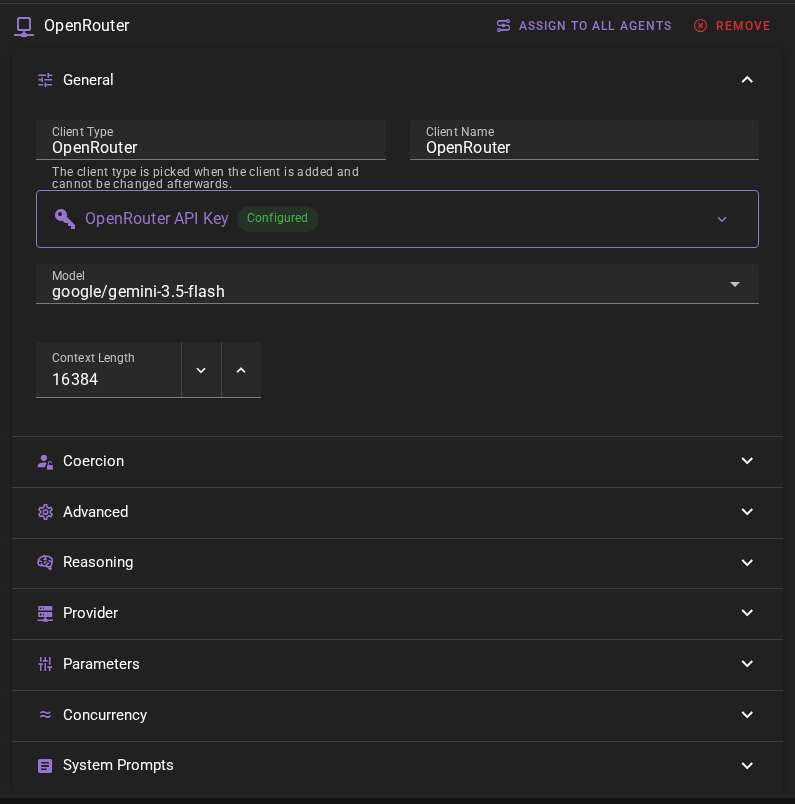
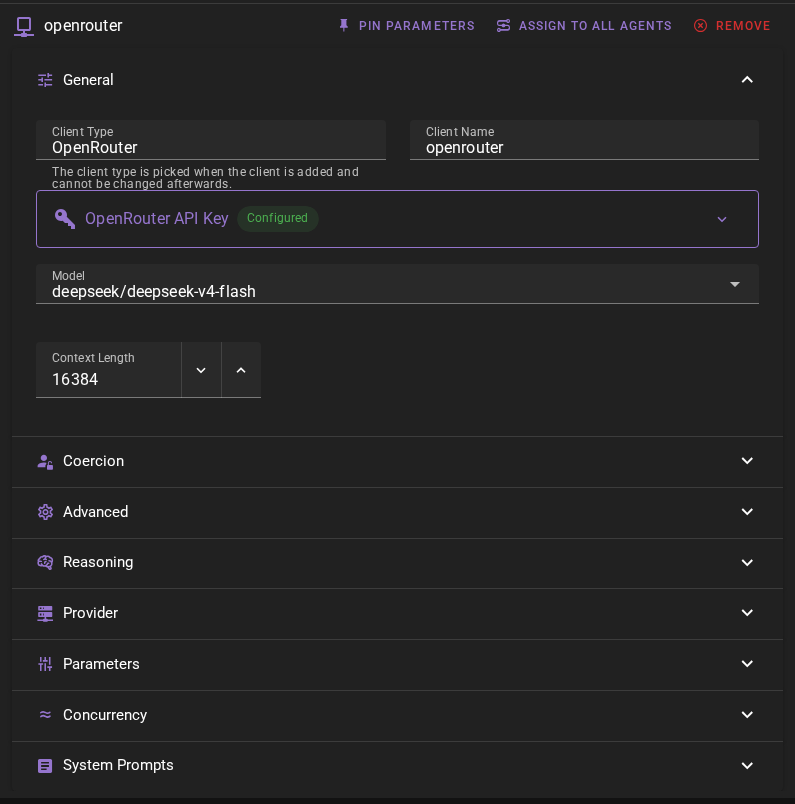
Pin parameters is always in the client menu; the settings page is a second pin (#386)
* feat: always offer the inference parameter pin in the client menu

* docs: name the pin action in the client editor; follow the pinned state in its tooltip

diff --git a/talemate_frontend/tests/unit/clientPinnedParams.spec.js b/talemate_frontend/tests/unit/clientPinnedParams.spec.js
@@ -1,0 +1,122 @@
+import { describe, it, expect } from "vitest";
+import { fileURLToPath, URL } from "node:url";
+import { lift, readSource } from "./helpers/liftMethod.js";
+import { movePinnedPanelClient, pinnedPanelClient } from "@/utils/inferencePresets";
+import { hasOwnName } from "@/utils/nameKeyedMap";
+
+const SOURCE = readSource(
+    fileURLToPath(new URL("../../src/components/AppSettingsClients.vue", import.meta.url)),
+);
+const CLIENT_LIST = readSource(
+    fileURLToPath(new URL("../../src/components/AIClient.vue", import.meta.url)),
+);
+const APP = readSource(
+    fileURLToPath(new URL("../../src/components/TalemateApp.vue", import.meta.url)),
+);
+
+function appStub({ pinned = null, clients = ["openrouter"] } = {}) {
+    const stub = {
+        appConfig: {
+            clients: Object.fromEntries(clients.map(name => [name, { name }])),
+            presets: { inference_param_panel: { client: pinned } },
+        },
+    };
+    const fn = lift(APP, "inferenceParamsClient", "TalemateApp.vue", { pinnedPanelClient, hasOwnName });
+    Object.defineProperty(stub, "inferenceParamsClient", { get: () => fn.call(stub) });
+    return stub;
+}
+
+function pageStub({ pinned = null, selected = "openrouter", clients = ["openrouter", "kobold"] } = {}) {
+    const stub = {
+        selected: selected ? [selected] : [],
+        config: {
+            clients: Object.fromEntries(clients.map(name => [name, { name, preset_group: "" }])),
+            presets: { inference_param_panel: { client: pinned }, inference_groups: {} },
+            agents: {},
+        },
+    };
+    for (const [name, deps] of [
+        ["selectedName", {}],
+        ["paramsPinned", { pinnedPanelClient }],
+    ]) {
+        const fn = lift(SOURCE, name, "AppSettingsClients.vue", deps);
+        Object.defineProperty(stub, name, { get: () => fn.call(stub) });
+    }
+    for (const [name, deps] of [
+        ["togglePinnedParams", {}],
+        ["deleteClient", { movePinnedPanelClient }],
+    ]) {
+        const fn = lift(SOURCE, name, "AppSettingsClients.vue", deps);
+        stub[name] = (...args) => fn.apply(stub, args);
+    }
+    stub.reassignAgents = () => {};
+    return stub;
+}
+
+describe("the clients page pin control", () => {
+    it("reads the pin the client list wrote", () => {
+        expect(pageStub({ pinned: "openrouter" }).paramsPinned).toBe(true);
+    });
+
+    it("a client pinned elsewhere reads as unpinned here", () => {
+        expect(pageStub({ pinned: "kobold" }).paramsPinned).toBe(false);
+    });
+
+    it("nothing is pinned while no client is selected", () => {
+        expect(pageStub({ pinned: null, selected: null }).paramsPinned).toBe(false);
+    });
+
+    it("pins the selected client", () => {
+        const stub = pageStub();
+        stub.togglePinnedParams();
+        expect(stub.config.presets.inference_param_panel.client).toBe("openrouter");
+        expect(stub.paramsPinned).toBe(true);
+    });
+
+    it("unpinning writes null rather than the name", () => {
+        const stub = pageStub({ pinned: "openrouter" });
+        stub.togglePinnedParams();
+        expect(stub.config.presets.inference_param_panel.client).toBeNull();
+        expect(stub.paramsPinned).toBe(false);
+    });
+
+    it("pinning replaces the client another entry pinned", () => {
+        const stub = pageStub({ pinned: "kobold" });
+        stub.togglePinnedParams();
+        expect(stub.config.presets.inference_param_panel.client).toBe("openrouter");
+    });
+
+    it("removing the pinned client clears the pin", () => {
+        const stub = pageStub({ pinned: "openrouter" });
+        stub.deleteClient({ client: "openrouter" });
+        expect(stub.config.presets.inference_param_panel.client).toBeNull();
+    });
+
+    it("removing another client leaves the pin alone", () => {
+        const stub = pageStub({ pinned: "openrouter" });
+        stub.deleteClient({ client: "kobold" });
+        expect(stub.config.presets.inference_param_panel.client).toBe("openrouter");
+    });
+});
+
+describe("the client list pin item", () => {
+    it("is offered whatever the configuration holds", () => {
+        const item = CLIENT_LIST.match(/<v-list-item([^>]*)@click="togglePinnedParams\(client\)"([^>]*)>/);
+        expect(item, "AIClient.vue has no pin list item").not.toBeNull();
+        expect(item[1] + item[2]).not.toContain("v-if");
+    });
+});
+
+describe("the panel the app mounts", () => {
+    it("names the pinned client", () => {
+        expect(appStub({ pinned: "openrouter" }).inferenceParamsClient).toBe("openrouter");
+    });
+
+    it("names nobody while nothing is pinned", () => {
+        expect(appStub({ pinned: null }).inferenceParamsClient).toBeNull();
+    });
+
+    it("names nobody while the pin outlives its client", () => {
+        expect(appStub({ pinned: "gone" }).inferenceParamsClient).toBeNull();
+    });
+});

diff --git a/talemate_frontend/src/components/AppSettingsClients.vue b/talemate_frontend/src/components/AppSettingsClients.vue
@@ -36,13 +36,6 @@
                     </v-list-item>
                 </v-list>
             </v-menu>
-
-            <v-divider class="mt-4 mb-2"></v-divider>
-
-            <v-switch v-model="paramPanelEnabled" density="compact" color="primary" hide-details
-                data-setting-anchor="inference-param-panel" label="Inference parameter panel">
-                <v-tooltip activator="parent" location="bottom" max-width="400">Lets a client's inference parameters be pinned to a panel beside the client list, where they are edited during play. Pick the client in the preset menu on its entry in that list.</v-tooltip>
-            </v-switch>
         </v-col>
 
         <v-col cols="8">
@@ -51,6 +44,12 @@
                     <v-icon class="mr-2" color="primary">mdi-network-outline</v-icon>
                     <span class="text-subtitle-1">{{ selectedName }}</span>
                     <v-spacer></v-spacer>
+                    <v-btn variant="text" size="small" color="primary" :prepend-icon="paramsPinned ? 'mdi-pin-off' : 'mdi-pin'"
+                        data-setting-anchor="inference-param-panel" @click="togglePinnedParams">{{ paramsPinned ? 'Unpin parameters' : 'Pin parameters' }}
+                        <v-tooltip activator="parent" location="bottom" max-width="400">{{ paramsPinned
+                            ? 'Take this client\'s parameters off the panel beside the client list. Applied when you save.'
+                            : 'Pin this client\'s inference parameters to a panel beside the client list, where they are edited during play. One client is pinned at a time. Applied when you save.' }}</v-tooltip>
+                    </v-btn>
                     <v-btn variant="text" size="small" color="primary" prepend-icon="mdi-transit-connection-variant"
                         :disabled="selectedClient.enabled === false"
                         data-setting-anchor="assign-to-all-agents" @click="assignToAllAgents">Assign to all agents
@@ -81,16 +80,17 @@ import ConfirmActionPrompt from './ConfirmActionPrompt.vue';
 import { buildClientFromDefaults } from '@/utils/clientPresets';
 import { agentsRequiringClient } from '@/utils/agentAssignments';
 import { cloneNameKeyedMap, hasOwnName, isReservedName } from '@/utils/nameKeyedMap';
-import { movePinnedPanelClient, panelSettings } from '@/utils/inferencePresets';
+import { movePinnedPanelClient, pinnedPanelClient } from '@/utils/inferencePresets';
 
 // Clients page — master / detail management of `config.clients` in the app
 // settings working copy.
 //
 // Everything on this page is working-copy state: adding, removing and editing
-// clients only mutate `config.clients` (a name -> client map) and reach the
-// backend through the settings toolbar's Save, where deletion-by-omission
-// applies. Live client status is read-only decoration (status dot, model
-// hint) and never feeds back into the working copy.
+// clients (a name -> client map) and pinning one to the inference parameter
+// panel only mutate the working copy and reach the backend through the settings
+// toolbar's Save, where deletion-by-omission applies. Live client status is
+// read-only decoration (status dot, model hint) and never feeds back into the
+// working copy.
 export default {
     name: 'AppSettingsClients',
     components: {
@@ -112,13 +112,8 @@ export default {
         }
     },
     computed: {
-        paramPanelEnabled: {
-            get() {
-                return panelSettings(this.config?.presets).enabled;
-            },
-            set(value) {
-                this.config.presets.inference_param_panel.enabled = value;
-            },
+        paramsPinned() {
+            return !!this.selectedName && pinnedPanelClient(this.config?.presets) === this.selectedName;
         },
         clientNames() {
             return Object.keys(this.config?.clients || {}).sort((a, b) => a.localeCompare(b));
@@ -168,6 +163,10 @@ export default {
         },
     },
     methods: {
+        togglePinnedParams() {
+            this.config.presets.inference_param_panel.client = this.paramsPinned ? null : this.selectedName;
+        },
+
         hasClient(name) {
             return hasOwnName(this.config?.clients, name);
         },

diff --git a/talemate_frontend/src/components/AIClient.vue b/talemate_frontend/src/components/AIClient.vue
@@ -86,12 +86,12 @@
                   <v-list density="compact" min-width="260">
                     <v-list-subheader>Inference group: {{ client.preset_group || "Default" }}</v-list-subheader>
 
-                    <v-list-item v-if="paramPanelEnabled" :prepend-icon="isPinned(client) ? 'mdi-pin-off' : 'mdi-pin'" @click="togglePinnedParams(client)">
+                    <v-list-item :prepend-icon="isPinned(client) ? 'mdi-pin-off' : 'mdi-pin'" @click="togglePinnedParams(client)">
                       <v-list-item-title>{{ isPinned(client) ? 'Unpin parameters' : 'Pin parameters' }}</v-list-item-title>
                       <v-list-item-subtitle>{{ isPinned(client) ? 'Close the parameter panel' : 'Tune this group beside the client list' }}</v-list-item-subtitle>
                     </v-list-item>
 
-                    <v-divider v-if="paramPanelEnabled"></v-divider>
+                    <v-divider></v-divider>
 
                     <v-list-subheader>Assign group</v-list-subheader>
 
@@ -285,7 +285,7 @@
 import AIClientRequestInformation from './AIClientRequestInformation.vue';
 import GraduatedSlider from './GraduatedSlider.vue';
 import { TOKEN_GRADUATIONS } from '@/utils/clientPresets';
-import { createPresetGroupForClient, groupNameError, panelSettings, presetGroupItems } from '@/utils/inferencePresets';
+import { createPresetGroupForClient, groupNameError, pinnedPanelClient, presetGroupItems } from '@/utils/inferencePresets';
 import { agentsRequiringClient } from '@/utils/agentAssignments';
 import { createClientSaveState } from '@/utils/clientSaveState';
 
@@ -319,11 +319,8 @@ export default {
     availablePresets() {
       return presetGroupItems(this.immutableConfig?.presets);
     },
-    paramPanelEnabled() {
-      return panelSettings(this.immutableConfig?.presets).enabled;
-    },
     pinnedParamsClient() {
-      return panelSettings(this.immutableConfig?.presets).client;
+      return pinnedPanelClient(this.immutableConfig?.presets);
     },
     visibleClients: function() {
       return this.state.clients.filter(client => !this.hideDisabled || client.status !== 'disabled');

diff --git a/talemate_frontend/tests/unit/inferencePresets.spec.js b/talemate_frontend/tests/unit/inferencePresets.spec.js
@@ -6,7 +6,7 @@ import {
     createPresetGroupForClient,
     groupNameError,
     movePinnedPanelClient,
-    panelSettings,
+    pinnedPanelClient,
     presetGroupItems,
     presetKeys,
     presetLabel,
@@ -34,7 +34,7 @@ function makeConfig() {
                     },
                 },
             },
-            inference_param_panel: { enabled: true, client: "kobold" },
+            inference_param_panel: { client: "kobold" },
         },
     };
 }
@@ -348,15 +348,18 @@ describe("changedValues", () => {
     });
 });
 
-describe("panelSettings", () => {
-    it("reads the stored settings", () => {
-        expect(panelSettings(makeConfig().presets)).toEqual({
-            enabled: true,
-            client: "kobold",
-        });
+describe("pinnedPanelClient", () => {
+    it("reads the pinned client", () => {
+        expect(pinnedPanelClient(makeConfig().presets)).toBe("kobold");
     });
 
-    it("falls back to off while the config is still empty", () => {
-        expect(panelSettings(null)).toEqual({ enabled: false, client: null });
+    it("reads null while the config is still empty", () => {
+        expect(pinnedPanelClient(null)).toBeNull();
+    });
+
+    it("reads null when no client is pinned", () => {
+        const presets = makeConfig().presets;
+        presets.inference_param_panel.client = null;
+        expect(pinnedPanelClient(presets)).toBeNull();
     });
 });

diff --git a/talemate_frontend/src/components/TalemateApp.vue b/talemate_frontend/src/components/TalemateApp.vue
@@ -530,7 +530,7 @@ import { SETTINGS_PAGES } from '../utils/appSettingsRegistry.js';
 import { createConfigSaveQueue } from '../utils/configSaveQueue.js';
 import { applyAppConfigTheme } from '../utils/appTheme.js';
 import { buildNameKeyedPayload, hasOwnName } from '../utils/nameKeyedMap.js';
-import { panelSettings } from '../utils/inferencePresets.js';
+import { pinnedPanelClient } from '../utils/inferencePresets.js';
 
 export default {
   components: {
@@ -886,13 +886,13 @@ export default {
   },
   computed: {
     inferenceParamsClient() {
-      const panel = panelSettings(this.appConfig?.presets);
-      if (!panel.enabled || !panel.client) {
+      const pinned = pinnedPanelClient(this.appConfig?.presets);
+      if (!pinned) {
         return null;
       }
       // a removed client keeps its name in the config until the next save, and
       // a client name may be any string, `toString` included
-      return hasOwnName(this.appConfig?.clients, panel.client) ? panel.client : null;
+      return hasOwnName(this.appConfig?.clients, pinned) ? pinned : null;
     },
     // The help chat is the help agent's only surface, so a disabled agent
     // takes its app bar toggle with it. Only an explicit `disabled` status

diff --git a/talemate_frontend/src/utils/appSettingsRegistry.js b/talemate_frontend/src/utils/appSettingsRegistry.js
@@ -124,7 +124,7 @@ export const SETTINGS_GROUPS = [
                     { label: 'Reasoning', anchor: 'reasoning', keywords: ['thinking', 'reason tokens', 'strip pattern'] },
                     { label: 'Rate limit and retries', anchor: 'advanced', keywords: ['requests per minute', 'throttle', 'retry', 'inference preset', 'prompt caching'] },
                     { label: 'Client system prompts', anchor: 'system_prompts', keywords: ['prompt', 'override', 'decensor'] },
-                    { label: 'Inference parameter panel', anchor: 'inference-param-panel', keywords: ['pin', 'panel', 'inference', 'parameters', 'presets', 'temperature', 'on the fly'] },
+                    { label: 'Pin parameters', anchor: 'inference-param-panel', keywords: ['pin', 'unpin', 'panel', 'inference parameter panel', 'inference', 'parameters', 'presets', 'temperature', 'on the fly'] },
                 ],
             },
             {

diff --git a/talemate_frontend/src/utils/inferencePresets.js b/talemate_frontend/src/utils/inferencePresets.js
@@ -126,8 +126,8 @@ export function changedValues(draft, baseline) {
     return changed;
 }
 
-export function panelSettings(presets) {
-    return presets?.inference_param_panel || { enabled: false, client: null };
+export function pinnedPanelClient(presets) {
+    return presets?.inference_param_panel?.client || null;
 }
 
 // Carries the pinned client through a rename (`newName`) or a removal

diff --git a/tests/test_config_state.py b/tests/test_config_state.py
@@ -274,19 +274,16 @@ class TestSaveConfig:
         self, isolated_config, tmp_path
     ):
         isolated_config.clients = {"c1": Client(type="openai", name="c1")}
-        isolated_config.presets.inference_param_panel.enabled = True
         isolated_config.presets.inference_param_panel.client = "gone"
 
         config_state.save_config()
         data = _read_back(tmp_path / "config.yaml")
         assert data["presets"]["inference_param_panel"]["client"] is None
-        assert data["presets"]["inference_param_panel"]["enabled"] is True
         # the broadcasts are built from the live model, not from the file
         assert config_state.get_config().presets.inference_param_panel.client is None
 
     def test_keeps_valid_inference_param_panel_client(self, isolated_config, tmp_path):
         isolated_config.clients = {"c1": Client(type="openai", name="c1")}
-        isolated_config.presets.inference_param_panel.enabled = True
         isolated_config.presets.inference_param_panel.client = "c1"
 
         config_state.save_config()

diff --git a/src/talemate/config/schema.py b/src/talemate/config/schema.py
@@ -460,7 +460,6 @@ class InferencePresetGroup(pydantic.BaseModel):
 
 
 class InferenceParamPanel(pydantic.BaseModel):
-    enabled: bool = False
     client: str | None = None
 
 

diff --git a/docs/user-guide/clients/presets.md b/docs/user-guide/clients/presets.md
@@ -179,13 +179,13 @@ You can also pick the preset group from the **Inference Presets** dropdown in th
 
 The preset editor in the settings is the full workbench. For tuning while you play, a client's parameters can be pinned to a panel that sits beside the client list, so a value is changed without leaving the scene.
 
-The panel is off until you turn it on. Open the **Settings** tab, select :material-network-outline: **Clients** under :material-connection: **Connections**, and turn on **Inference parameter panel**.
-
-![inference parameter panel setting](/talemate/img/0.40.0/client-inference-param-panel-setting.png)
-
-Then open the client listing, click the client's :material-tune: chip and choose **Pin parameters**. The panel appears next to the list.
+Open the client listing, click the client's :material-tune: chip and choose **Pin parameters**. The panel appears next to the list.
 
 ![inference parameter panel](/talemate/img/0.40.0/client-inference-param-panel.png)
+
+The settings page pins the same panel. Open the **Settings** tab, select :material-network-outline: **Clients** under :material-connection: **Connections**, select the client and click :material-pin: **Pin parameters**. This one applies when you save, the way the rest of the page does. Both controls pin and unpin the same client, so each shows what the other did — while the settings page holds unsaved edits it keeps showing its own copy, and saving it writes the pin that copy carries.
+
+![pin parameters on the clients settings page](/talemate/img/0.40.0/client-inference-param-panel-setting.png)
 
 The panel edits one preset of the client's group at a time — pick it in the **Preset** selector. It offers the same parameters as the settings editor, with the advanced samplers behind **Advanced sampling**. Every change is saved by itself a moment after you make it; there is no save button.
 

diff --git a/docs/user-guide/clients/client-configuration.md b/docs/user-guide/clients/client-configuration.md
@@ -26,8 +26,9 @@ A client marked with an **Unsaved** chip has no running counterpart yet — you 
 
 ## The client editor
 
-The header above the editor carries the name of the selected client and two actions:
+The header above the editor carries the name of the selected client and three actions:
 
+- **:material-pin: Pin parameters** — pins this client's inference parameters to a panel beside the client list, where they are tuned during play. One client is pinned at a time, and the button reads **:material-pin-off: Unpin parameters** while this one is the pinned client. Like everything else on this page it is applied when you save. See [The inference parameter panel](presets.md#the-inference-parameter-panel).
 - **:material-transit-connection-variant: Assign to all agents** — makes every agent that generates with an LLM client use this client. Like everything else on this page it is applied when you save. The button is disabled while the client itself is disabled; enable the client first with the :material-power-standby: button on its row in the sidebar.
 - **:material-close-circle-outline: Remove** — asks for confirmation, then drops the client. It is disconnected and purged when you save.
 
